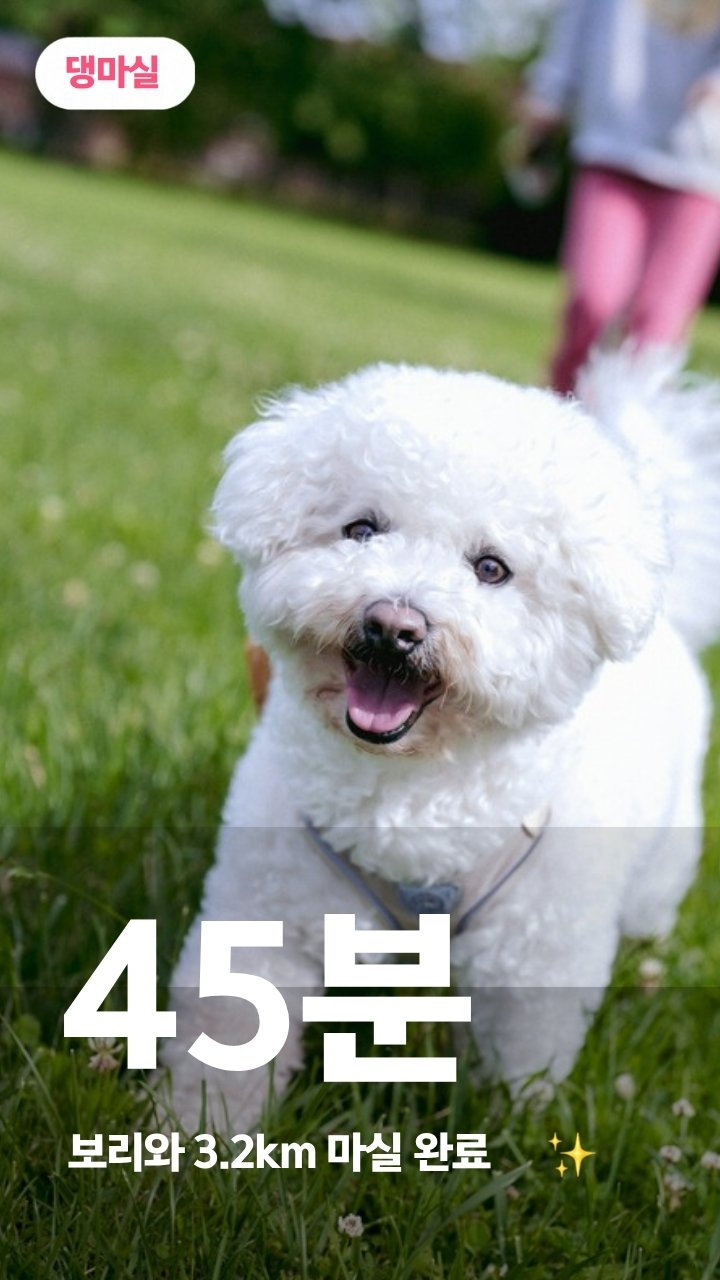
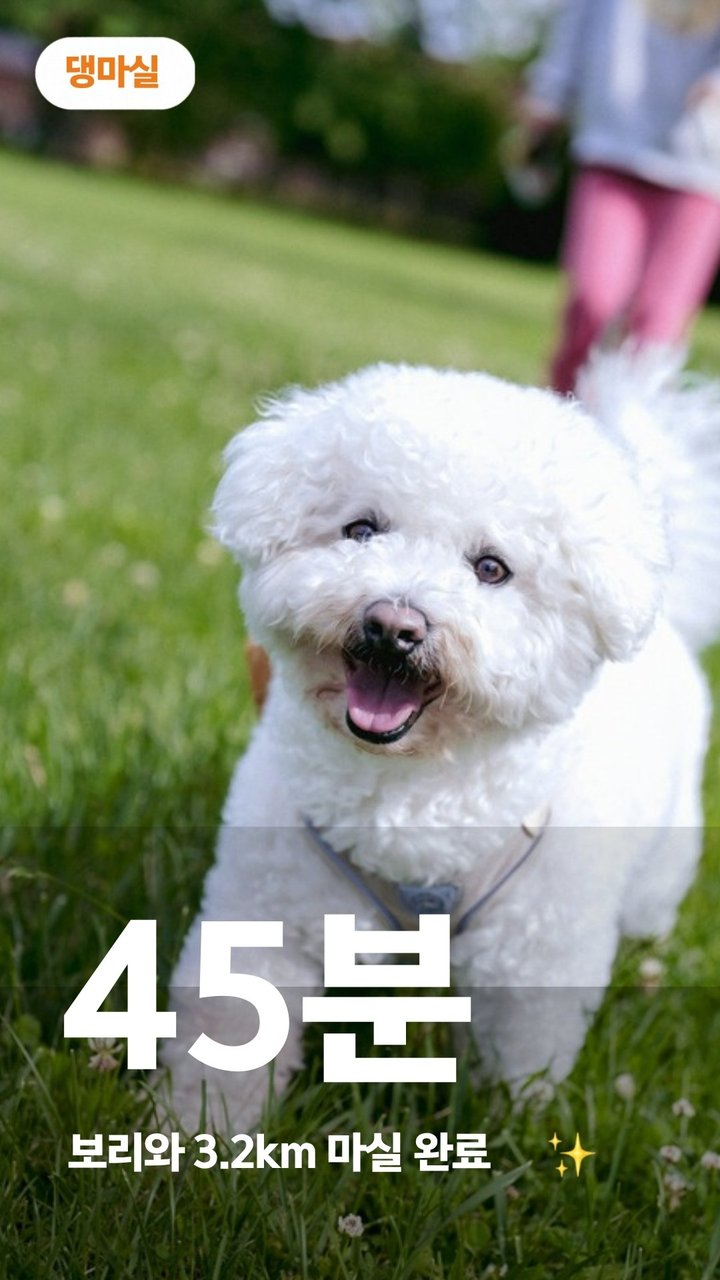
feat(dangmasil): orange glass landing and privacy
Match the app's new orange + glass look: radial orange gradient,
translucent glass cards and button, orange accents on the privacy page,
theme-color #F07A1A. New harness-dog icon (192px, 39KB), orange OG
preview and orange logo on the example story card. Privacy item 2 now
says walk photos stay in the Photos app and the app, never off device.

Changed region(s): [[0.0917, 0.0312, 0.2444, 0.0938], [0.55, 0.75, 0.5806, 0.7812], [0.4889, 0.75, 0.5194, 0.7812]]

diff --git a/src/dangmasil/Privacy.tsx b/src/dangmasil/Privacy.tsx
@@ -11,16 +11,16 @@ export default function Privacy() {
   }, []);
 
   return (
-    <div className="min-h-screen bg-[#FFF5F7]" style={{ fontFamily: "'Pretendard Variable', Pretendard, -apple-system, sans-serif" }}>
+    <div className="min-h-screen bg-[#FFF4EA]" style={{ fontFamily: "'Pretendard Variable', Pretendard, -apple-system, sans-serif" }}>
       <header
         className="text-white"
-        style={{ background: "linear-gradient(170deg, #FF9A8B 0%, #FF6A88 60%, #FF99AC 100%)" }}
+        style={{ background: "radial-gradient(120% 70% at 20% 0%, #FFC27A 0%, #FF9A3D 38%, #F07A1A 70%, #E8650F 100%)" }}
       >
         <div className="max-w-2xl mx-auto px-6 pt-8 pb-10">
           <Link to="/" className="inline-flex items-center gap-2 text-sm font-semibold text-white/90 mb-6">
             <img src="/dangmasil/img/icon.png" alt="" className="w-6 h-6 rounded-md" />← 댕마실
           </Link>
-          <h1 className="text-[28px] font-black leading-tight">댕마실 개인정보처리방침</h1>
+          <h1 className="text-[28px] font-black leading-tight [text-shadow:0_2px_14px_rgba(150,60,0,0.35)]">댕마실 개인정보처리방침</h1>
           <p className="text-white/80 text-sm mt-2">
             시행일자: {EFFECTIVE_DATE} · 운영자: {OPERATOR} (개인 개발자)
           </p>
@@ -28,7 +28,7 @@ export default function Privacy() {
       </header>
 
       <main className="max-w-2xl mx-auto px-4 py-8">
-        <div className="bg-white rounded-3xl p-6 sm:p-9 space-y-8 text-[15px] leading-relaxed text-[#5A4448]">
+        <div className="bg-white/80 backdrop-blur-xl border border-white rounded-3xl p-6 sm:p-9 space-y-8 text-[15px] leading-relaxed text-[#4A3826] shadow-[0_10px_30px_rgba(150,60,0,0.08)]">
           <p>
             '댕마실 - 강아지 산책 기록'(이하 '앱')은 이용자의 개인정보와 위치정보를 수집하거나
             전송하지 않습니다. 이 방침은 앱이 어떤 정보를 어떻게 다루는지 설명합니다.
@@ -41,7 +41,9 @@ export default function Privacy() {
 
           <Section title="2. 기기 안에만 저장되는 정보">
             반려견 정보와 산책 기록(산책 경로 포함)은 이용자의 휴대폰 안에만 저장되며 기기 밖으로
-            보내지 않습니다. 앱을 삭제하면 이 정보도 함께 지워집니다.
+            보내지 않습니다. 산책 중 앱으로 찍은 사진은 이용자의 사진 앱과 이 앱 안에만 저장되며 기기
+            밖으로 보내지 않습니다. 앱을 삭제하면 이 정보도 함께 지워집니다(사진 앱에 저장된 사진은
+            남습니다).
           </Section>
 
           <Section title="3. 상품 목록 받기">
@@ -58,14 +60,14 @@ export default function Privacy() {
 
           <Section title="5. 개인정보 보호책임자">
             개인정보 보호책임자: {OPERATOR} ·{" "}
-            <a href={`mailto:${CONTACT_EMAIL}`} className="text-[#FF4F7B] underline">
+            <a href={`mailto:${CONTACT_EMAIL}`} className="text-[#B4560C] underline">
               {CONTACT_EMAIL}
             </a>
           </Section>
 
           <Section title="6. 문의">
             이 방침에 대한 문의는{" "}
-            <a href={`mailto:${CONTACT_EMAIL}`} className="text-[#FF4F7B] underline">
+            <a href={`mailto:${CONTACT_EMAIL}`} className="text-[#B4560C] underline">
               {CONTACT_EMAIL}
             </a>
             으로 보내 주세요.
@@ -83,7 +85,7 @@ export default function Privacy() {
 function Section({ title, children }: { title: string; children: React.ReactNode }) {
   return (
     <section>
-      <h2 className="text-[#FF4F7B] text-lg font-extrabold mb-2">{title}</h2>
+      <h2 className="text-[#B4560C] text-lg font-extrabold mb-2">{title}</h2>
       <p>{children}</p>
     </section>
   );

diff --git a/src/dangmasil/Landing.tsx b/src/dangmasil/Landing.tsx
@@ -1,7 +1,8 @@
 import { useEffect } from "react";
 import Footer from "./Footer";
 
-const GRADIENT = "linear-gradient(170deg, #FF9A8B 0%, #FF6A88 45%, #FF99AC 100%)";
+const GRADIENT = "radial-gradient(120% 70% at 20% 0%, #FFC27A 0%, #FF9A3D 38%, #F07A1A 70%, #E8650F 100%)";
+const GLASS = "bg-white/65 backdrop-blur-xl border border-white/70";
 
 const FEATURES = [
   { icon: "🐶", title: "여러 아이 함께", body: "아이마다 사진과 주간 목표를 따로. 함께 나간 아이들 모두에게 기록돼요." },
@@ -24,12 +25,12 @@ export default function Landing() {
         </header>
 
         <section className="px-6 pt-8">
-          <h1 className="text-[34px] leading-[1.2] font-black tracking-[-0.5px]">
+          <h1 className="text-[34px] leading-[1.2] font-black tracking-[-0.5px] [text-shadow:0_2px_14px_rgba(150,60,0,0.35)]">
             산책 끝나면
             <br />
             스토리 각 📸
           </h1>
-          <p className="mt-3 text-[15px] leading-relaxed text-white/90">
+          <p className="mt-3 text-[15px] leading-relaxed text-white/95 [text-shadow:0_1px_8px_rgba(150,60,0,0.3)]">
             오늘 걸은 시간과 거리, 우리 아이 사진을
             <br />
             예쁜 카드 한 장으로.
@@ -40,14 +41,14 @@ export default function Landing() {
           <img
             src="/dangmasil/img/story-card.jpg"
             alt="댕마실 산책 카드 예시: 아이 사진 위에 45분, 보리와 3.2km 마실 완료"
-            className="w-[230px] aspect-[9/16] object-cover rounded-[26px] border-4 border-white shadow-[0_18px_40px_rgba(120,0,40,0.35)] bg-[#ffd0da]"
+            className="w-[230px] aspect-[9/16] object-cover rounded-[26px] border-4 border-white shadow-[0_18px_40px_rgba(150,60,0,0.35)] bg-[#FFE9D2]"
           />
         </div>
 
         <div className="px-6 mt-8">
           <div
             aria-disabled="true"
-            className="w-full rounded-full bg-white text-[#FF4F7B] font-bold text-[15px] py-4 text-center"
+            className="w-full rounded-full bg-white/30 backdrop-blur-xl border border-white/60 text-white font-bold text-[15px] py-4 text-center"
           >
             App Store 출시 준비 중 · 곧 만나요
           </div>
@@ -55,13 +56,13 @@ export default function Landing() {
 
         <section className="px-4 mt-12 space-y-3">
           {FEATURES.map((f) => (
-            <div key={f.title} className="bg-white/95 text-[#3A2A2E] rounded-3xl p-5 flex gap-4 items-start">
-              <div className="w-11 h-11 shrink-0 rounded-2xl bg-[#FFE1E7] flex items-center justify-center text-[22px]">
+            <div key={f.title} className={`${GLASS} text-[#2E1E0A] rounded-3xl p-5 flex gap-4 items-start`}>
+              <div className="w-11 h-11 shrink-0 rounded-2xl bg-white/80 flex items-center justify-center text-[22px]">
                 {f.icon}
               </div>
               <div>
                 <h2 className="font-bold text-[15px]">{f.title}</h2>
-                <p className="text-[13px] leading-relaxed text-[#8A6F72] mt-1">{f.body}</p>
+                <p className="text-[13px] leading-relaxed text-[#6B5440] mt-1">{f.body}</p>
               </div>
             </div>
           ))}

diff --git a/dangmasil/index.html b/dangmasil/index.html
@@ -8,7 +8,7 @@
       name="description"
       content="산책 끝나면 스토리 각. 우리 아이와 걸은 시간과 거리, 사진을 예쁜 카드 한 장으로. 회원가입 없이, 기록은 내 폰에만."
     />
-    <meta name="theme-color" content="#FF6A88" />
+    <meta name="theme-color" content="#F07A1A" />
     <link rel="icon" type="image/png" href="/dangmasil/img/icon.png" />
     <link rel="apple-touch-icon" href="/dangmasil/img/icon.png" />
     <link rel="canonical" href="https://dangmasil.lunenlabs.com/" />

diff --git a/src/dangmasil/Footer.tsx b/src/dangmasil/Footer.tsx
@@ -4,7 +4,7 @@ export const CONTACT_EMAIL = "dangmasil@lunenlabs.com";
 export const OPERATOR = "류정현";
 
 export default function Footer({ tone = "light" }: { tone?: "light" | "dark" }) {
-  const text = tone === "light" ? "text-white/80" : "text-[#8A6F72]";
+  const text = tone === "light" ? "text-white/80" : "text-[#8A6F5A]";
   return (
     <footer className={`px-6 pt-10 pb-12 text-center text-xs leading-6 ${text}`}>
       <div className="flex justify-center gap-4 mb-2 font-semibold">

diff --git a/dangmasil/CREDITS.md b/dangmasil/CREDITS.md
@@ -5,4 +5,4 @@
 | `public/dangmasil/img/story-card.jpg`, `public/dangmasil/img/og.png` | https://unsplash.com/photos/bichon-frise-dog-in-green-park-K9hVJfCzggk | ello (@ello_clicks) | [Unsplash License](https://unsplash.com/license) — 상업적 사용 가능, 출처 표기 의무 없음 | 2026-11-04 |
 
 - 사진은 Canva로 가져와 산책 카드(Canva 1080×1920, 화면용 720×1280 JPG로 내보냄)와 링크 미리보기 이미지(1200×630)로 편집했다.
-- `public/dangmasil/img/icon.png`는 댕마실 앱 아이콘(`dangmasil` 저장소 `assets/icon.png`)이다.
+- `public/dangmasil/img/icon.png`는 댕마실 앱 아이콘(`dangmasil` 저장소 `assets/icon.png`, 2026-11-04 빨간 하네스 강아지)을 192×192로 줄인 것이다.
